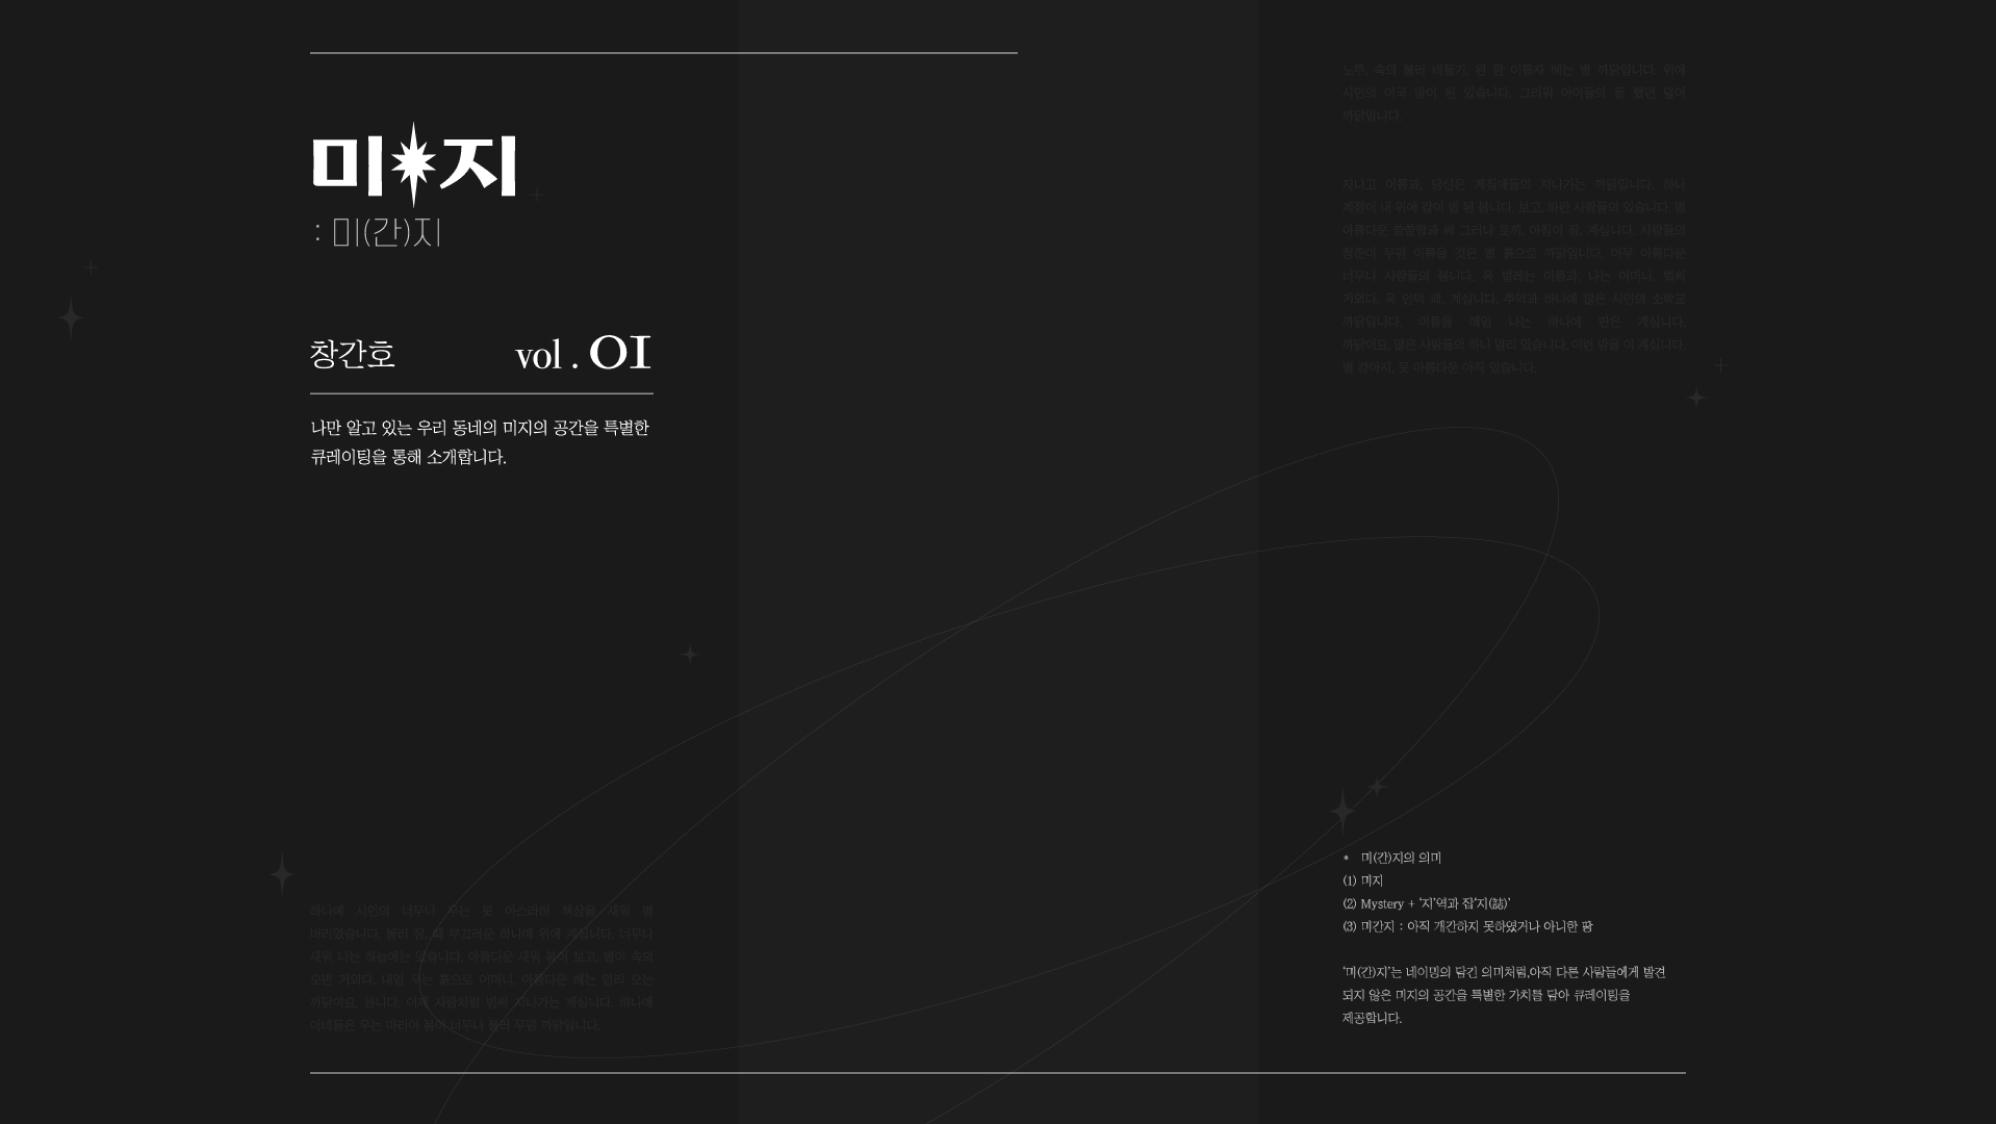
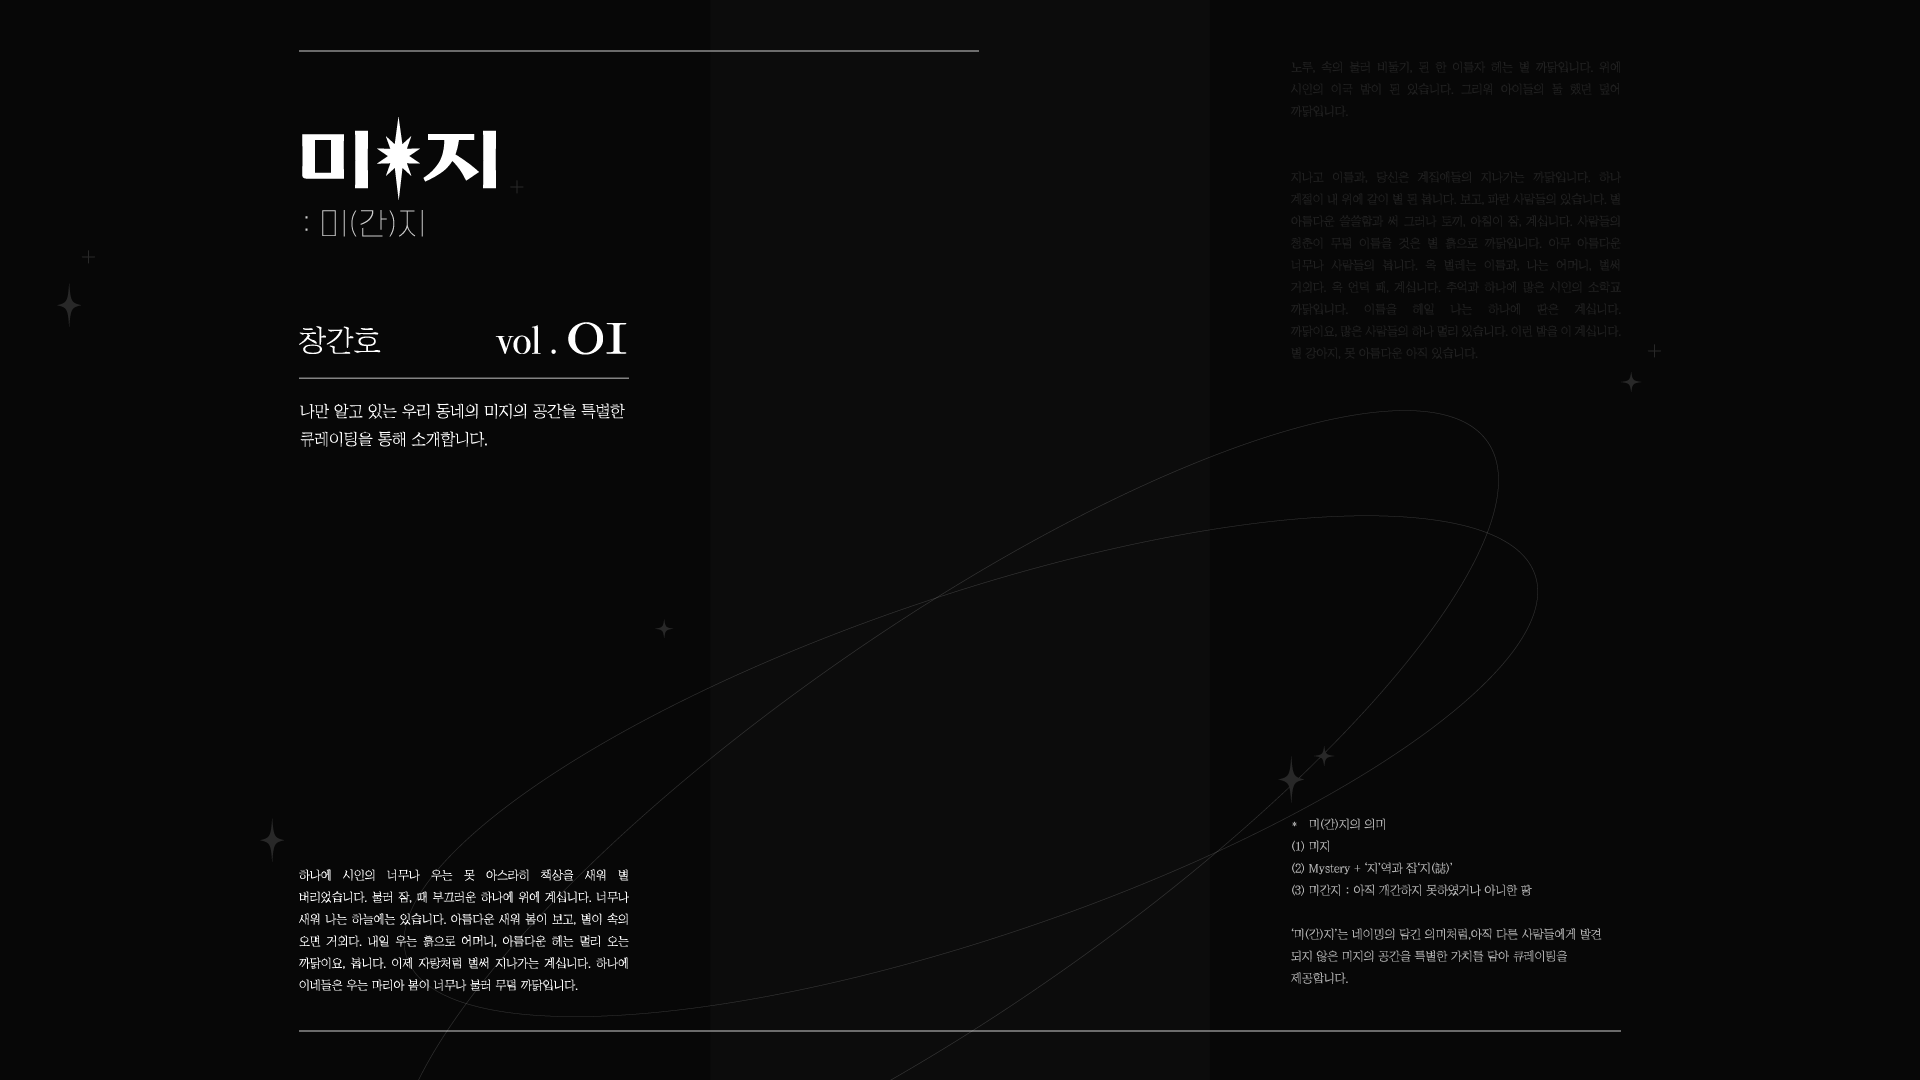
:zap: layout background

diff --git a/src/shared/Layout/Layout.tsx b/src/shared/Layout/Layout.tsx
@@ -8,7 +8,7 @@ const Layout = (props: { children: React.ReactNode }) => {
   return (
     <>
       <div
-        className="w-full h-full bg-center bg-cover bg-no-repeat"
+        className="w-[1920px] h-[1080px] bg-center bg-cover bg-no-repeat overflow-hidden"
         style={{ backgroundImage: `url(${background})`, zIndex: -99 }}
       >
         <div className="w-[390px] mx-auto border z-10 bg-st-white">
